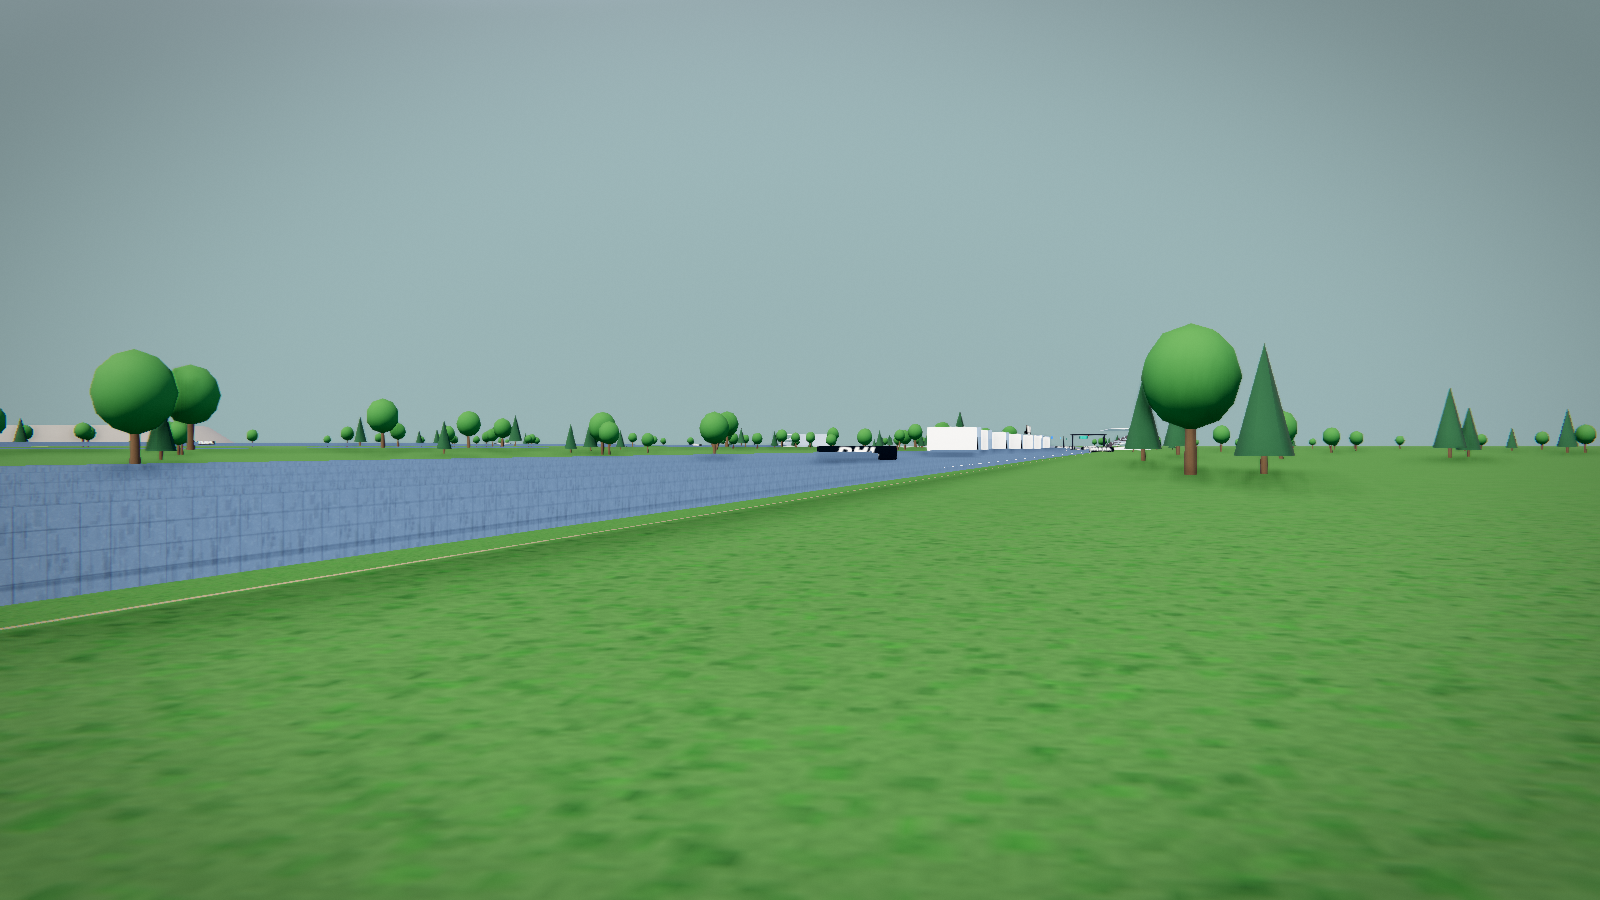
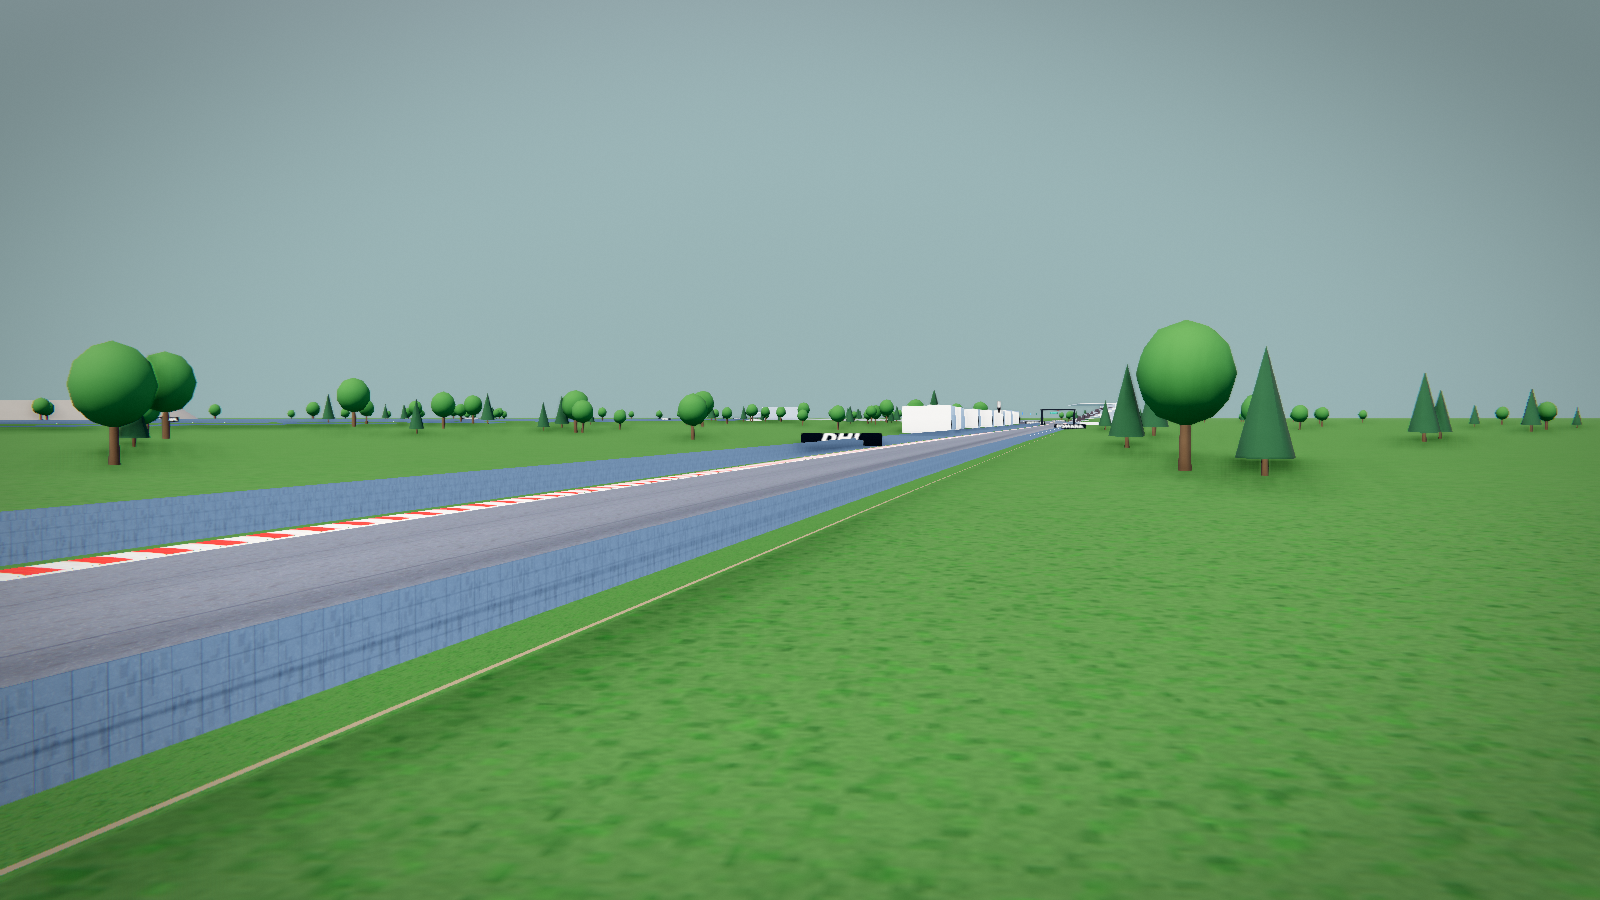
shots: lift the trackside camera above the barrier so the track is visible

diff --git a/world/shots.js b/world/shots.js
@@ -63,11 +63,13 @@
          back up the road — the classic low-angle speed shot */
       var tsS = track.length * 0.10;
       var ps = track.at(tsS, {});
-      var lat2 = ps.width * 0.5 + 13;
+      /* stand behind the barrier but high enough to see over it: a 1 m
+         concrete wall blocks a 1.55 m camera completely */
+      var lat2 = ps.width * 0.5 + 11;
       camera.fov = 40;
       camera.position.set(
         ps.x - o.x + Math.cos(ps.heading) * lat2,
-        ps.y + 1.55,
+        ps.y + 3.2,
         ps.z - o.z - Math.sin(ps.heading) * lat2);
       var back = track.at(tsS - 70, {});
       camera.lookAt(back.x - o.x, back.y + 1.4, back.z - o.z);
